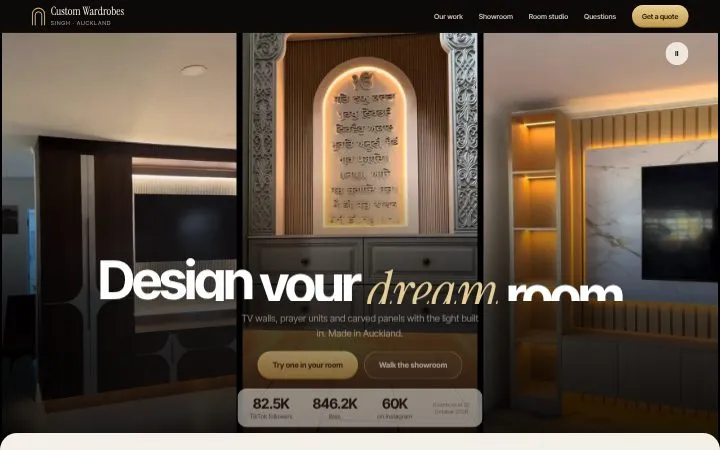
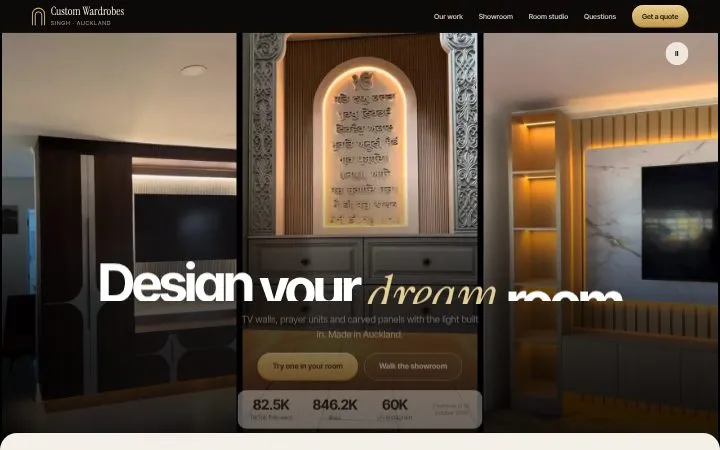
Custom Wardrobes: phone layout and richer 06
Claude-Session: https://claude.ai/code/session_01WqnGcpj9xHEybvX22jA6rA

Changed region(s): [[0.1222, 0.56, 0.8861, 0.7467], [0.3056, 0.7778, 0.6722, 0.9644]]

diff --git a/custom-wardrobes/concepts/designs/06-showroom/index.html b/custom-wardrobes/concepts/designs/06-showroom/index.html
@@ -13,7 +13,7 @@
 <link rel="preload" as="style" href="https://fonts.googleapis.com/css2?family=Inter+Tight:wght@400;500;600;700;800&family=Instrument+Serif:ital@0;1&display=swap" onload="this.onload=null;this.rel='stylesheet'">
 <noscript><link rel="stylesheet" href="https://fonts.googleapis.com/css2?family=Inter+Tight:wght@400;500;600;700;800&family=Instrument+Serif:ital@0;1&display=swap"></noscript>
 <link rel="preload" as="image" href="/assets/video/show-gurbani.webp" fetchpriority="high">
-<link rel="stylesheet" href="/assets/cw-common.css?v=8">
+<link rel="stylesheet" href="/assets/cw-common.css?v=10">
 <link rel="stylesheet" href="/assets/studio.css?v=5">
 <script>(function(d){d.classList.add("js");window.CW_BASE="/";if(!matchMedia("(prefers-reduced-motion: reduce)").matches){d.classList.add("motion");setTimeout(function(){if(!window.CW_MOTION){d.classList.remove("motion");d.classList.add("motion-off");}},3000);}})(document.documentElement);</script>
 <style>
@@ -116,6 +116,31 @@ html.motion-off .big .sw,.no-js .big .sw{opacity:1}
 .small{font-size:13px;color:var(--c-muted);text-align:center;margin:0}
 /* ---------- followers ---------- */
 .follow2 b{font-family:var(--sans);font-weight:800;letter-spacing:-.05em}
+/* ---------- richer surfaces: raised cream cards, a champagne band, espresso sections ---------- */
+#work{background:linear-gradient(180deg,#f4efe7,#efe6d8)}
+.grid8 .tile{background:linear-gradient(180deg,#fffaf2,#f1e8da);border-radius:24px;padding:8px 8px 16px;box-shadow:0 22px 34px -26px rgba(60,40,10,.55),inset 0 1px 0 #fff}
+.grid8 .tile-ph{border-radius:18px}
+.make{background:linear-gradient(180deg,#efe1c3,#e3cd9f)!important}.make .lede,.make-item p,.make-more{color:#5a4a33}
+.make-item{background:linear-gradient(180deg,#fffaf0,#f5ead6);border-radius:24px;padding:10px 10px 18px;box-shadow:0 22px 34px -26px rgba(80,55,10,.6),inset 0 1px 0 #fff}
+.make-item img{border-radius:18px;width:100%}
+.dark{background:radial-gradient(120% 80% at 50% 0%,#231a12 0%,#0b0a09 62%)}
+.follow2 a{background:linear-gradient(180deg,rgba(201,163,90,.16),rgba(201,163,90,.04));border-color:rgba(230,205,150,.3)}
+.faq-item{background:#fffaf2;border:0!important;border-radius:18px;padding:20px 22px;margin-bottom:10px;box-shadow:0 14px 26px -22px rgba(60,40,10,.5)}.faq-list{border:0!important}
+/* ---------- phones ---------- */
+@media (max-width:600px){
+ .hero .badge,.hero .btn.ghost{display:none}
+ .hero h1{font-size:clamp(2.7rem,13vw,3.6rem)}
+ .hero-copy{padding-bottom:calc(26px + env(safe-area-inset-bottom))}
+ .knock span{font-size:30vw}
+ .big{font-size:clamp(28px,8vw,36px);max-width:none}
+ .ls-steps li,.ls-steps li:first-child,.ls-steps li:last-child{min-height:34svh}
+ .ls-frame{width:min(100%,calc(50svh * .5625))}
+ .grid8{gap:12px}.grid8 .tile{padding:6px 6px 12px;border-radius:18px}.grid8 .tile-ph{border-radius:13px}
+ .make-grid{gap:12px}.make-item{padding:6px 6px 14px;border-radius:18px}
+ .sr{border-radius:18px}
+ .sec-head{margin-bottom:28px}
+ section{padding-block:64px}
+}
 /* ---------- studio, questions, contact, footer ---------- */
 .studio-sec .st{--st-bg:#0b0a09;--st-panel:#1a1714;--st-accent:#e0bf7c}
 .make{background:var(--paper)}.make-item h3{font-family:var(--sans);font-weight:700;letter-spacing:-.03em}

diff --git a/custom-wardrobes/concepts/designs/04-atelier/index.html b/custom-wardrobes/concepts/designs/04-atelier/index.html
@@ -12,7 +12,7 @@
 <link rel="preconnect" href="https://fonts.gstatic.com" crossorigin>
 <link rel="preload" as="style" href="https://fonts.googleapis.com/css2?family=EB+Garamond:ital,wght@0,400;1,400&family=Jost:wght@400;500&display=swap" onload="this.onload=null;this.rel='stylesheet'">
 <noscript><link rel="stylesheet" href="https://fonts.googleapis.com/css2?family=EB+Garamond:ital,wght@0,400;1,400&family=Jost:wght@400;500&display=swap"></noscript>
-<link rel="stylesheet" href="/assets/cw-common.css?v=8">
+<link rel="stylesheet" href="/assets/cw-common.css?v=10">
 <link rel="stylesheet" href="/assets/studio.css?v=5">
 <script>(function(d){d.classList.add("js");window.CW_BASE="/";if(!matchMedia("(prefers-reduced-motion: reduce)").matches){d.classList.add("motion");setTimeout(function(){if(!window.CW_MOTION){d.classList.remove("motion");d.classList.add("motion-off");}},3000);}})(document.documentElement);</script>
 <style>
@@ -60,6 +60,7 @@ html.motion .plate img.nt{animation:showimg .3s 1.25s steps(2,end) forwards,hide
 
 .plate figcaption{position:absolute;left:0;right:0;bottom:-34px;text-align:center;font-size:13px;color:var(--c-muted)}
 @media (max-width:900px){.hero .wrap{grid-template-columns:1fr}.plate{width:min(70vw,300px)}.index{display:none}}
+@media (max-width:600px){.hero .btn.line,.hero .no{display:none}.hero-copy p{font-size:15px}.plate{width:min(58vw,240px)}}
 /* catalogue: an index where each row shows its build */
 .cat{border-top:1px solid var(--c-ink)}
 .row{display:grid;grid-template-columns:70px 1.4fr 1fr auto;gap:20px;align-items:center;padding:22px 0;border-bottom:1px solid var(--c-line);position:relative}

diff --git a/custom-wardrobes/assets/cw-common.css b/custom-wardrobes/assets/cw-common.css
@@ -129,3 +129,18 @@ html.motion .tile-ph.day .nt { opacity: 0; }
 .sec-head h2::before { content: ""; display: block; width: min(180px, 36vw); height: 2px; margin: 0 auto 22px; border-radius: 2px; background: linear-gradient(90deg, transparent, var(--c-accent), transparent); }
 html.motion .sec-head h2::before { transform: scaleX(0); opacity: .2; transition: transform .8s cubic-bezier(.22,.61,.36,1), opacity .8s ease; }
 html.motion .sec-head h2.in::before { transform: none; opacity: 1; }
+
+/* ---------- phones: fewer words per screen, bigger pictures (owner, 23 October 2026) ---------- */
+@media (max-width: 600px) {
+  /* builds: photo and name only; tapping the photo opens every photo with "Place this in my room" */
+  .tile .k, .tile-act { display: none !important; }
+  .tile h3 { font-size: 16px; line-height: 1.25; }
+  .make-item p { display: none !important; }
+  .make-item h3 { font-size: 19px !important; }
+  .make-more { font-size: 15px; }
+  .follow2 { grid-template-columns: 1fr 1fr !important; gap: 10px; }
+  .follow2 a { padding: 20px 8px; }
+  .follow2 b { font-size: 40px; }
+  .follow2 small { font-size: 11px; }
+  .studio-points { display: none !important; }
+}

diff --git a/custom-wardrobes/concepts/designs/01-after-dark/index.html b/custom-wardrobes/concepts/designs/01-after-dark/index.html
@@ -12,7 +12,7 @@
 <link rel="preconnect" href="https://fonts.gstatic.com" crossorigin>
 <link rel="preload" as="style" href="https://fonts.googleapis.com/css2?family=Bodoni+Moda:ital,opsz,wght@0,6..96,400;1,6..96,400&family=Inter:wght@400;500;600;700&display=optional" onload="this.onload=null;this.rel='stylesheet'">
 <noscript><link rel="stylesheet" href="https://fonts.googleapis.com/css2?family=Bodoni+Moda:ital,opsz,wght@0,6..96,400;1,6..96,400&family=Inter:wght@400;500;600;700&display=optional"></noscript>
-<link rel="stylesheet" href="/assets/cw-common.css?v=8">
+<link rel="stylesheet" href="/assets/cw-common.css?v=10">
 <link rel="stylesheet" href="/assets/studio.css?v=5">
 <script>(function(d){d.classList.add("js");window.CW_BASE="/";if(!matchMedia("(prefers-reduced-motion: reduce)").matches){d.classList.add("motion");setTimeout(function(){if(!window.CW_MOTION){d.classList.remove("motion");d.classList.add("motion-off");}},3000);}})(document.documentElement);</script>
 <style>

diff --git a/custom-wardrobes/concepts/designs/03-reels/index.html b/custom-wardrobes/concepts/designs/03-reels/index.html
@@ -13,7 +13,7 @@
 <link rel="preload" as="style" href="https://fonts.googleapis.com/css2?family=Bricolage+Grotesque:opsz,wght@12..96,700&family=Inter:wght@400;600;700&display=swap" onload="this.onload=null;this.rel='stylesheet'">
 <noscript><link rel="stylesheet" href="https://fonts.googleapis.com/css2?family=Bricolage+Grotesque:opsz,wght@12..96,700&family=Inter:wght@400;600;700&display=swap"></noscript>
 <link rel="preload" as="image" href="/assets/video/hero-media-wall.webp" fetchpriority="high">
-<link rel="stylesheet" href="/assets/cw-common.css?v=8">
+<link rel="stylesheet" href="/assets/cw-common.css?v=10">
 <link rel="stylesheet" href="/assets/studio.css?v=5">
 <script>(function(d){d.classList.add("js");window.CW_BASE="/";if(!matchMedia("(prefers-reduced-motion: reduce)").matches){d.classList.add("motion");setTimeout(function(){if(!window.CW_MOTION){d.classList.remove("motion");d.classList.add("motion-off");}},3000);}})(document.documentElement);</script>
 <style>

diff --git a/custom-wardrobes/concepts/designs/02-arch/index.html b/custom-wardrobes/concepts/designs/02-arch/index.html
@@ -12,7 +12,7 @@
 <link rel="preconnect" href="https://fonts.gstatic.com" crossorigin>
 <link rel="preload" as="style" href="https://fonts.googleapis.com/css2?family=Manrope:wght@400;600;700&family=Newsreader:ital,opsz,wght@0,6..72,400;1,6..72,400&display=swap" onload="this.onload=null;this.rel='stylesheet'">
 <noscript><link rel="stylesheet" href="https://fonts.googleapis.com/css2?family=Manrope:wght@400;600;700&family=Newsreader:ital,opsz,wght@0,6..72,400;1,6..72,400&display=swap"></noscript>
-<link rel="stylesheet" href="/assets/cw-common.css?v=8">
+<link rel="stylesheet" href="/assets/cw-common.css?v=10">
 <link rel="stylesheet" href="/assets/studio.css?v=5">
 <script>(function(d){d.classList.add("js");window.CW_BASE="/";if(!matchMedia("(prefers-reduced-motion: reduce)").matches){d.classList.add("motion");setTimeout(function(){if(!window.CW_MOTION){d.classList.remove("motion");d.classList.add("motion-off");}},3000);}})(document.documentElement);</script>
 <style>

diff --git a/custom-wardrobes/concepts/designs/05-studio/index.html b/custom-wardrobes/concepts/designs/05-studio/index.html
@@ -12,7 +12,7 @@
 <link rel="preconnect" href="https://fonts.gstatic.com" crossorigin>
 <link rel="preload" as="style" href="https://fonts.googleapis.com/css2?family=Instrument+Serif:ital@0;1&family=Inter+Tight:wght@400;600;700&display=swap" onload="this.onload=null;this.rel='stylesheet'">
 <noscript><link rel="stylesheet" href="https://fonts.googleapis.com/css2?family=Instrument+Serif:ital@0;1&family=Inter+Tight:wght@400;600;700&display=swap"></noscript>
-<link rel="stylesheet" href="/assets/cw-common.css?v=8">
+<link rel="stylesheet" href="/assets/cw-common.css?v=10">
 <link rel="stylesheet" href="/assets/studio.css?v=5">
 <script>(function(d){d.classList.add("js");window.CW_BASE="/";if(!matchMedia("(prefers-reduced-motion: reduce)").matches){d.classList.add("motion");setTimeout(function(){if(!window.CW_MOTION){d.classList.remove("motion");d.classList.add("motion-off");}},3000);}})(document.documentElement);</script>
 <style>

diff --git a/custom-wardrobes/concepts/tools/build.py b/custom-wardrobes/concepts/tools/build.py
@@ -100,7 +100,7 @@ def head(c, css, preload=""):
 <link rel="preconnect" href="https://fonts.gstatic.com" crossorigin>
 <link rel="preload" as="style" href="{c['fonts']}" onload="this.onload=null;this.rel='stylesheet'">
 <noscript><link rel="stylesheet" href="{c['fonts']}"></noscript>
-{preload}<link rel="stylesheet" href="{B}assets/cw-common.css?v=8">
+{preload}<link rel="stylesheet" href="{B}assets/cw-common.css?v=10">
 <link rel="stylesheet" href="{B}assets/studio.css?v=5">
 <script>(function(d){{d.classList.add("js");window.CW_BASE="{B}";if(!matchMedia("(prefers-reduced-motion: reduce)").matches){{d.classList.add("motion");setTimeout(function(){{if(!window.CW_MOTION){{d.classList.remove("motion");d.classList.add("motion-off");}}}},3000);}}}})(document.documentElement);</script>
 <style>
@@ -708,6 +708,7 @@ html.motion .plate img.nt{animation:showimg .3s 1.25s steps(2,end) forwards,hide
 
 .plate figcaption{position:absolute;left:0;right:0;bottom:-34px;text-align:center;font-size:13px;color:var(--c-muted)}
 @media (max-width:900px){.hero .wrap{grid-template-columns:1fr}.plate{width:min(70vw,300px)}.index{display:none}}
+@media (max-width:600px){.hero .btn.line,.hero .no{display:none}.hero-copy p{font-size:15px}.plate{width:min(58vw,240px)}}
 /* catalogue: an index where each row shows its build */
 .cat{border-top:1px solid var(--c-ink)}
 .row{display:grid;grid-template-columns:70px 1.4fr 1fr auto;gap:20px;align-items:center;padding:22px 0;border-bottom:1px solid var(--c-line);position:relative}
@@ -1014,6 +1015,31 @@ html.motion-off .big .sw,.no-js .big .sw{opacity:1}
 .small{font-size:13px;color:var(--c-muted);text-align:center;margin:0}
 /* ---------- followers ---------- */
 .follow2 b{font-family:var(--sans);font-weight:800;letter-spacing:-.05em}
+/* ---------- richer surfaces: raised cream cards, a champagne band, espresso sections ---------- */
+#work{background:linear-gradient(180deg,#f4efe7,#efe6d8)}
+.grid8 .tile{background:linear-gradient(180deg,#fffaf2,#f1e8da);border-radius:24px;padding:8px 8px 16px;box-shadow:0 22px 34px -26px rgba(60,40,10,.55),inset 0 1px 0 #fff}
+.grid8 .tile-ph{border-radius:18px}
+.make{background:linear-gradient(180deg,#efe1c3,#e3cd9f)!important}.make .lede,.make-item p,.make-more{color:#5a4a33}
+.make-item{background:linear-gradient(180deg,#fffaf0,#f5ead6);border-radius:24px;padding:10px 10px 18px;box-shadow:0 22px 34px -26px rgba(80,55,10,.6),inset 0 1px 0 #fff}
+.make-item img{border-radius:18px;width:100%}
+.dark{background:radial-gradient(120% 80% at 50% 0%,#231a12 0%,#0b0a09 62%)}
+.follow2 a{background:linear-gradient(180deg,rgba(201,163,90,.16),rgba(201,163,90,.04));border-color:rgba(230,205,150,.3)}
+.faq-item{background:#fffaf2;border:0!important;border-radius:18px;padding:20px 22px;margin-bottom:10px;box-shadow:0 14px 26px -22px rgba(60,40,10,.5)}.faq-list{border:0!important}
+/* ---------- phones ---------- */
+@media (max-width:600px){
+ .hero .badge,.hero .btn.ghost{display:none}
+ .hero h1{font-size:clamp(2.7rem,13vw,3.6rem)}
+ .hero-copy{padding-bottom:calc(26px + env(safe-area-inset-bottom))}
+ .knock span{font-size:30vw}
+ .big{font-size:clamp(28px,8vw,36px);max-width:none}
+ .ls-steps li,.ls-steps li:first-child,.ls-steps li:last-child{min-height:34svh}
+ .ls-frame{width:min(100%,calc(50svh * .5625))}
+ .grid8{gap:12px}.grid8 .tile{padding:6px 6px 12px;border-radius:18px}.grid8 .tile-ph{border-radius:13px}
+ .make-grid{gap:12px}.make-item{padding:6px 6px 14px;border-radius:18px}
+ .sr{border-radius:18px}
+ .sec-head{margin-bottom:28px}
+ section{padding-block:64px}
+}
 /* ---------- studio, questions, contact, footer ---------- */
 .studio-sec .st{--st-bg:#0b0a09;--st-panel:#1a1714;--st-accent:#e0bf7c}
 .make{background:var(--paper)}.make-item h3{font-family:var(--sans);font-weight:700;letter-spacing:-.03em}
